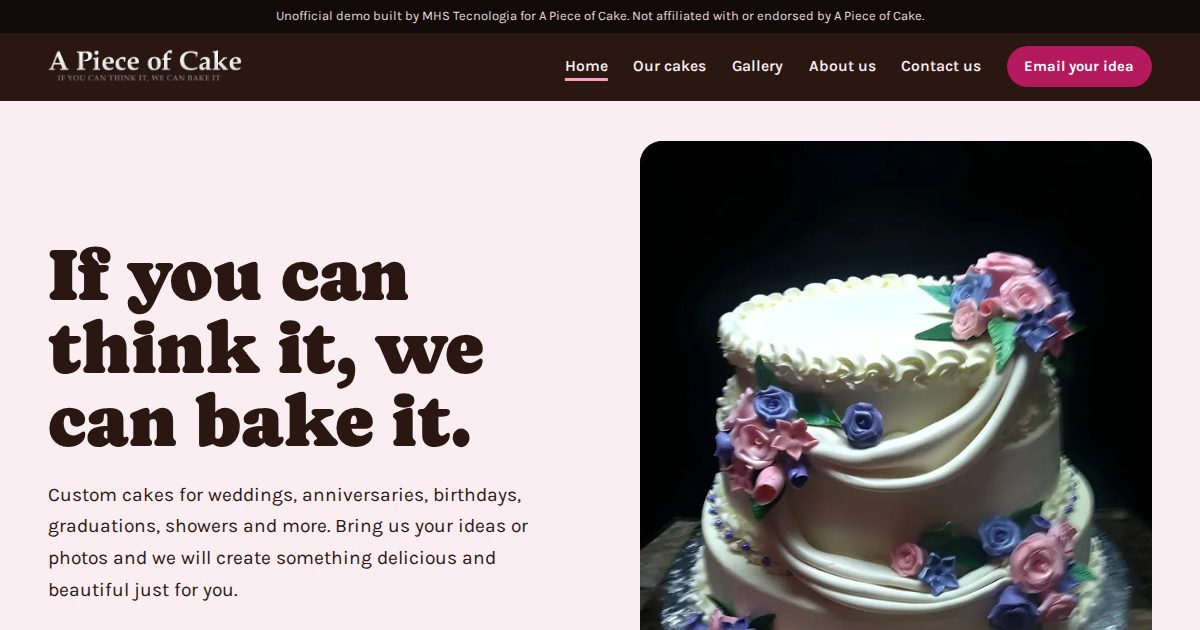
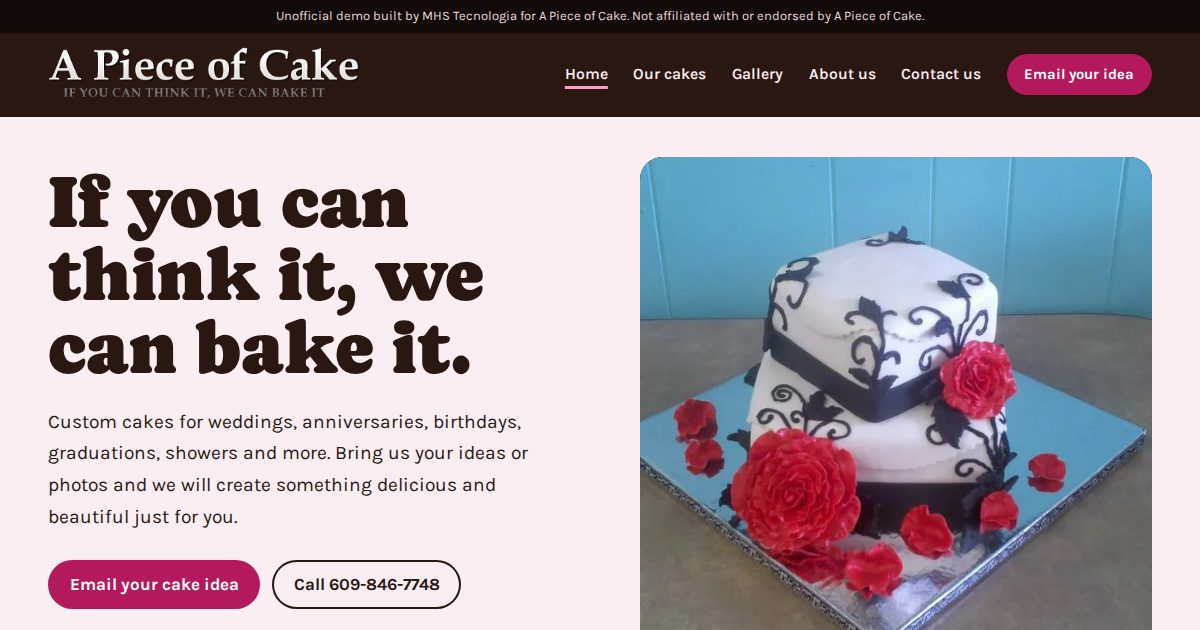
Previews: 179 ativos

diff --git a/a-piece-of-cake-cape-may-court-house-nj/index.html b/a-piece-of-cake-cape-may-court-house-nj/index.html
@@ -9,8 +9,8 @@
 <meta name="theme-color" content="#2b1712">
 <link rel="icon" href="favicon.svg" type="image/svg+xml">
 <link rel="preload" as="font" type="font/woff2" href="fonts/caprasimo.woff2" crossorigin>
-<link rel="preload" as="image" href="img/hero-m-800.webp" imagesrcset="img/hero-m-400.webp 400w, img/hero-m-800.webp 800w" imagesizes="calc(100vw - 2rem)" media="(max-width: 859px)" fetchpriority="high">
-<link rel="preload" as="image" href="img/hero-900.webp" imagesrcset="img/hero-600.webp 600w, img/hero-900.webp 900w, img/hero-1200.webp 1200w" imagesizes="32rem" media="(min-width: 860px)" fetchpriority="high">
+<link rel="preload" as="image" href="img/hero-m-659.webp" imagesrcset="img/hero-m-400.webp 400w, img/hero-m-659.webp 659w" imagesizes="calc(100vw - 2rem)" media="(max-width: 859px)" fetchpriority="high">
+<link rel="preload" as="image" href="img/blackwhite-659.webp" imagesrcset="img/blackwhite-500.webp 500w, img/blackwhite-659.webp 659w" imagesizes="32rem" media="(min-width: 860px)" fetchpriority="high">
 <style>
 @font-face{font-family:Caprasimo;font-weight:400;font-display:swap;src:url(fonts/caprasimo.woff2) format("woff2")}
 @font-face{font-family:Karla;font-weight:300 800;font-display:swap;src:url(fonts/karla.woff2) format("woff2")}
@@ -34,8 +34,8 @@ h2{font-size:clamp(2rem,4.2vw,3.2rem)}
 
 /* Header: their embossed white logo needs the dark band it was drawn for. */
 .top{background:var(--cocoa);color:#fbeef2}
-.top .wrap{display:flex;align-items:center;justify-content:space-between;gap:1rem;min-height:4.25rem}
-.brand img{height:2.5rem;width:auto}
+.top .wrap{display:flex;align-items:center;justify-content:space-between;gap:1rem;min-height:5.25rem}
+.brand img{height:4rem;width:auto}
 .nav{display:flex;align-items:center;gap:1.6rem;font-weight:600;font-size:.98rem}
 .nav > a{text-decoration:none;padding:.3rem 0}
 .nav > a:hover,.nav > a[aria-current]{text-decoration:underline;text-decoration-color:var(--rose);text-decoration-thickness:3px;text-underline-offset:7px}
@@ -55,7 +55,7 @@ background:var(--fuchsia);color:#fff;font-weight:700;text-decoration:none;line-h
 /* Footer */
 .foot{background:var(--cocoa);color:#f0dfe5;margin-top:5rem;padding:3rem 0 2rem;font-size:.95rem}
 .foot .wrap{display:grid;gap:2rem;grid-template-columns:1.2fr 1fr 1fr}
-.foot img{height:2.4rem;width:auto;margin-bottom:.8rem}
+.foot img{width:min(100%,420px);height:auto;margin-bottom:.8rem}
 .foot h2{font-family:Karla,sans-serif;font-weight:700;font-size:1rem;margin-bottom:.5rem}
 .foot ul{list-style:none;padding:0}
 .foot li{margin:.2rem 0}
@@ -79,7 +79,9 @@ dialog.lb button{position:absolute;right:.6rem;bottom:.55rem;background:#fbeef2;
   .nav > a{display:none}
   .nav > .btn{display:none}
   .menu{display:block}
-  .brand img{height:2.1rem}
+  .brand img{height:3.2rem}
+  .top .wrap{gap:.5rem;min-height:4.6rem}
+  .menu summary{padding:.5rem .85rem}
   .foot .wrap{grid-template-columns:1fr}
   .dock{position:fixed;left:0;right:0;bottom:0;z-index:25;display:grid;grid-template-columns:1fr 1fr;gap:.5rem;padding:.6rem 1rem calc(.6rem + env(safe-area-inset-bottom));
     background:var(--cocoa);transform:translateY(110%);transition:transform .25s ease}
@@ -98,7 +100,7 @@ dialog.lb button{position:absolute;right:.6rem;bottom:.55rem;background:#fbeef2;
 .note{margin-top:1.1rem;font-size:.95rem;color:#5b3d34}
 .case{background:var(--case);border-radius:1.4rem;overflow:hidden}
 .case img{width:100%}
-.hero .case{aspect-ratio:3/4}
+.hero .case{aspect-ratio:659/650}
 .hero .case img{height:100%;object-fit:cover}
 
 /* The signature: their own call-and-response, the answer written in piping script. */
@@ -106,8 +108,7 @@ dialog.lb button{position:absolute;right:.6rem;bottom:.55rem;background:#fbeef2;
 .bake .wrap{display:grid;grid-template-columns:1fr 26rem;gap:clamp(2rem,6vw,5rem);align-items:center}
 .ask{font-family:Karla,system-ui,sans-serif;font-weight:400;text-wrap:pretty;font-size:clamp(1.25rem,2.1vw,1.6rem);line-height:1.4;max-width:36rem;color:#f3e2e8}
 .answer{display:block;font-family:Damion,cursive;color:var(--rose);font-size:clamp(2.6rem,5.2vw,4.2rem);line-height:1.15;margin:.35rem 0 2.6rem;transform:rotate(-3deg);transform-origin:left center;width:max-content;max-width:100%}
-.js .answer{clip-path:inset(0 100% 0 0);transition:clip-path 1.1s cubic-bezier(.6,.05,.3,1)}
-.js .answer.on{clip-path:inset(0 -5% 0 0)}
+@media (prefers-reduced-motion:no-preference){.js .answer{clip-path:inset(0 100% 0 0);transition:clip-path 1.1s cubic-bezier(.6,.05,.3,1)}.js .answer.on{clip-path:inset(0 -5% 0 0)}}
 .bake .end{font-family:Caprasimo,Georgia,serif;font-size:clamp(1.7rem,3vw,2.4rem);line-height:1.1;margin-bottom:1.5rem;max-width:30rem}
 .bake figure{margin:0}
 .bake figcaption{font-size:.9rem;color:#cdb6be;margin-top:.7rem}
@@ -115,6 +116,12 @@ dialog.lb button{position:absolute;right:.6rem;bottom:.55rem;background:#fbeef2;
 /* We serve: their own list of occasions, set big, each one a door into Our cakes. */
 .serve{padding:clamp(3.5rem,8vw,6rem) 0 1rem}
 .serve h2{margin-bottom:1.6rem}
+.strip{list-style:none;padding:0;display:grid;grid-template-columns:repeat(4,1fr);gap:1rem;margin-bottom:clamp(2.5rem,6vw,4rem)}
+.strip a{display:block;text-decoration:none;font-weight:700;font-size:1.05rem}
+.strip img{width:100%;aspect-ratio:1;object-fit:cover;border-radius:.9rem;background:var(--case);transition:transform .3s ease}
+.strip a:hover img{transform:translateY(-3px)}
+.strip span{display:block;margin-top:.55rem;text-decoration:underline;text-decoration-color:var(--rose);text-decoration-thickness:3px;text-underline-offset:5px}
+@media (max-width:859px){.strip{grid-template-columns:repeat(2,1fr);gap:.8rem}}
 .occasions{list-style:none;padding:0;display:flex;flex-wrap:wrap;gap:.2rem 0;font-family:Caprasimo,Georgia,serif;font-size:clamp(1.6rem,3.6vw,2.9rem);line-height:1.25}
 .occasions li:not(:last-child)::after{content:"/";color:var(--fuchsia);margin:0 .45em;font-family:Karla,sans-serif;font-weight:300}
 .occasions a{text-decoration:none;background-image:linear-gradient(var(--rose),var(--rose));background-size:100% .18em;background-position:0 88%;background-repeat:no-repeat}
@@ -177,8 +184,8 @@ dialog.lb button{position:absolute;right:.6rem;bottom:.55rem;background:#fbeef2;
     </div>
     <div class="case">
       <picture>
-        <source media="(max-width: 859px)" srcset="img/hero-m-400.webp 400w, img/hero-m-800.webp 800w" sizes="calc(100vw - 2rem)" width="800" height="600">
-        <img src="img/hero-900.webp" srcset="img/hero-600.webp 600w, img/hero-900.webp 900w, img/hero-1200.webp 1200w" sizes="32rem" width="900" height="1207" alt="Three-tier cake with buttercream swags and pink and violet sugar roses" fetchpriority="high">
+        <source media="(max-width: 859px)" srcset="img/hero-m-400.webp 400w, img/hero-m-659.webp 659w" sizes="calc(100vw - 2rem)" width="659" height="494">
+        <img src="img/blackwhite-659.webp" srcset="img/blackwhite-500.webp 500w, img/blackwhite-659.webp 659w" sizes="32rem" width="659" height="650" alt="Two-tier white wedding cake with black scrollwork and red sugar roses" fetchpriority="high">
       </picture>
     </div>
   </div>
@@ -203,6 +210,12 @@ dialog.lb button{position:absolute;right:.6rem;bottom:.55rem;background:#fbeef2;
 
 <section class="serve" aria-labelledby="serve-h">
   <div class="wrap">
+    <ul class="strip">
+      <li><a href="cakes.html#weddings"><img src="img/nautical-500.webp" srcset="img/nautical-500.webp 500w, img/nautical-800.webp 800w, img/nautical-880.webp 880w" sizes="(min-width: 860px) 16.5rem, calc(50vw - 1.4rem)" width="500" height="682" alt="Navy-striped wedding cake with a rope border and an anchor on top" loading="lazy" decoding="async"><span>Weddings</span></a></li>
+      <li><a href="cakes.html#birthdays"><img src="img/first-500.webp" srcset="img/first-500.webp 500w, img/first-720.webp 720w" sizes="(min-width: 860px) 16.5rem, calc(50vw - 1.4rem)" width="500" height="667" alt="Small birthday cake piped in blue and green rosettes with a big green number 1" loading="lazy" decoding="async"><span>Birthdays</span></a></li>
+      <li><a href="cakes.html#cupcakes"><img src="img/bouquet-500.webp" srcset="img/bouquet-500.webp 500w, img/bouquet-800.webp 800w, img/bouquet-1200.webp 1200w" sizes="(min-width: 860px) 16.5rem, calc(50vw - 1.4rem)" width="500" height="669" alt="Cupcake bouquet of teal rosettes in a white pot" loading="lazy" decoding="async"><span>Cupcakes</span></a></li>
+      <li><a href="cakes.html#holidays"><img src="img/pumpkin-500.webp" srcset="img/pumpkin-500.webp 500w, img/pumpkin-800.webp 800w, img/pumpkin-1200.webp 1200w" sizes="(min-width: 860px) 16.5rem, calc(50vw - 1.4rem)" width="500" height="500" alt="Round cake with an orange piped border and sugar pumpkins" loading="lazy" decoding="async"><span>Holidays</span></a></li>
+    </ul>
     <h2 id="serve-h">We serve</h2>
     <ul class="occasions">
       <li><a href="cakes.html#weddings">Weddings</a></li>

diff --git a/a-piece-of-cake-cape-may-court-house-nj/gallery.html b/a-piece-of-cake-cape-may-court-house-nj/gallery.html
@@ -32,8 +32,8 @@ h2{font-size:clamp(2rem,4.2vw,3.2rem)}
 
 /* Header: their embossed white logo needs the dark band it was drawn for. */
 .top{background:var(--cocoa);color:#fbeef2}
-.top .wrap{display:flex;align-items:center;justify-content:space-between;gap:1rem;min-height:4.25rem}
-.brand img{height:2.5rem;width:auto}
+.top .wrap{display:flex;align-items:center;justify-content:space-between;gap:1rem;min-height:5.25rem}
+.brand img{height:4rem;width:auto}
 .nav{display:flex;align-items:center;gap:1.6rem;font-weight:600;font-size:.98rem}
 .nav > a{text-decoration:none;padding:.3rem 0}
 .nav > a:hover,.nav > a[aria-current]{text-decoration:underline;text-decoration-color:var(--rose);text-decoration-thickness:3px;text-underline-offset:7px}
@@ -53,7 +53,7 @@ background:var(--fuchsia);color:#fff;font-weight:700;text-decoration:none;line-h
 /* Footer */
 .foot{background:var(--cocoa);color:#f0dfe5;margin-top:5rem;padding:3rem 0 2rem;font-size:.95rem}
 .foot .wrap{display:grid;gap:2rem;grid-template-columns:1.2fr 1fr 1fr}
-.foot img{height:2.4rem;width:auto;margin-bottom:.8rem}
+.foot img{width:min(100%,420px);height:auto;margin-bottom:.8rem}
 .foot h2{font-family:Karla,sans-serif;font-weight:700;font-size:1rem;margin-bottom:.5rem}
 .foot ul{list-style:none;padding:0}
 .foot li{margin:.2rem 0}
@@ -77,7 +77,9 @@ dialog.lb button{position:absolute;right:.6rem;bottom:.55rem;background:#fbeef2;
   .nav > a{display:none}
   .nav > .btn{display:none}
   .menu{display:block}
-  .brand img{height:2.1rem}
+  .brand img{height:3.2rem}
+  .top .wrap{gap:.5rem;min-height:4.6rem}
+  .menu summary{padding:.5rem .85rem}
   .foot .wrap{grid-template-columns:1fr}
   .dock{position:fixed;left:0;right:0;bottom:0;z-index:25;display:grid;grid-template-columns:1fr 1fr;gap:.5rem;padding:.6rem 1rem calc(.6rem + env(safe-area-inset-bottom));
     background:var(--cocoa);transform:translateY(110%);transition:transform .25s ease}
@@ -188,7 +190,7 @@ dialog.lb button{position:absolute;right:.6rem;bottom:.55rem;background:#fbeef2;
 </section>
 <section class="album wrap" aria-labelledby="a-from-our-front-page">
   <h2 id="a-from-our-front-page">From our front page</h2>
-  <div class="wall"><figure class="tile"><button type="button" class="zoom" data-full="img/redroses-900.webp" aria-label="Enlarge: Tiered white cake with cascading red roses, set among candles"><img src="img/redroses-500.webp" srcset="img/redroses-500.webp 500w, img/redroses-900.webp 900w" sizes="(min-width: 860px) 25.5rem, calc(50vw - 1.3rem)" width="500" height="239" alt="Tiered white cake with cascading red roses, set among candles" loading="lazy" decoding="async"></button></figure><figure class="tile"><button type="button" class="zoom" data-full="img/steampunk-900.webp" aria-label="Enlarge: Cake covered in gears, wings, a pocket watch and dark sugar roses"><img src="img/steampunk-500.webp" srcset="img/steampunk-500.webp 500w, img/steampunk-900.webp 900w" sizes="(min-width: 860px) 25.5rem, calc(50vw - 1.3rem)" width="500" height="239" alt="Cake covered in gears, wings, a pocket watch and dark sugar roses" loading="lazy" decoding="async"></button></figure><figure class="tile"><button type="button" class="zoom" data-full="img/flowercup-900.webp" aria-label="Enlarge: Close-up of a cupcake with a pink and green sugar flower"><img src="img/flowercup-500.webp" srcset="img/flowercup-500.webp 500w, img/flowercup-900.webp 900w" sizes="(min-width: 860px) 25.5rem, calc(50vw - 1.3rem)" width="500" height="239" alt="Close-up of a cupcake with a pink and green sugar flower" loading="lazy" decoding="async"></button></figure></div>
+  <div class="wall"><figure class="tile"><button type="button" class="zoom" data-full="img/steampunk-900.webp" aria-label="Enlarge: Cake covered in gears, wings, a pocket watch and dark sugar roses"><img src="img/steampunk-500.webp" srcset="img/steampunk-500.webp 500w, img/steampunk-900.webp 900w" sizes="(min-width: 860px) 25.5rem, calc(50vw - 1.3rem)" width="500" height="239" alt="Cake covered in gears, wings, a pocket watch and dark sugar roses" loading="lazy" decoding="async"></button></figure><figure class="tile"><button type="button" class="zoom" data-full="img/flowercup-900.webp" aria-label="Enlarge: Close-up of a cupcake with a pink and green sugar flower"><img src="img/flowercup-500.webp" srcset="img/flowercup-500.webp 500w, img/flowercup-900.webp 900w" sizes="(min-width: 860px) 25.5rem, calc(50vw - 1.3rem)" width="500" height="239" alt="Close-up of a cupcake with a pink and green sugar flower" loading="lazy" decoding="async"></button></figure><figure class="tile"><button type="button" class="zoom" data-full="img/platter-900.webp" aria-label="Enlarge: Platter of decorated cupcakes and sliced rolls"><img src="img/platter-500.webp" srcset="img/platter-500.webp 500w, img/platter-900.webp 900w" sizes="(min-width: 860px) 25.5rem, calc(50vw - 1.3rem)" width="500" height="239" alt="Platter of decorated cupcakes and sliced rolls" loading="lazy" decoding="async"></button></figure></div>
 </section>
 
 </main>

diff --git a/a-piece-of-cake-cape-may-court-house-nj/about.html b/a-piece-of-cake-cape-may-court-house-nj/about.html
@@ -32,8 +32,8 @@ h2{font-size:clamp(2rem,4.2vw,3.2rem)}
 
 /* Header: their embossed white logo needs the dark band it was drawn for. */
 .top{background:var(--cocoa);color:#fbeef2}
-.top .wrap{display:flex;align-items:center;justify-content:space-between;gap:1rem;min-height:4.25rem}
-.brand img{height:2.5rem;width:auto}
+.top .wrap{display:flex;align-items:center;justify-content:space-between;gap:1rem;min-height:5.25rem}
+.brand img{height:4rem;width:auto}
 .nav{display:flex;align-items:center;gap:1.6rem;font-weight:600;font-size:.98rem}
 .nav > a{text-decoration:none;padding:.3rem 0}
 .nav > a:hover,.nav > a[aria-current]{text-decoration:underline;text-decoration-color:var(--rose);text-decoration-thickness:3px;text-underline-offset:7px}
@@ -53,7 +53,7 @@ background:var(--fuchsia);color:#fff;font-weight:700;text-decoration:none;line-h
 /* Footer */
 .foot{background:var(--cocoa);color:#f0dfe5;margin-top:5rem;padding:3rem 0 2rem;font-size:.95rem}
 .foot .wrap{display:grid;gap:2rem;grid-template-columns:1.2fr 1fr 1fr}
-.foot img{height:2.4rem;width:auto;margin-bottom:.8rem}
+.foot img{width:min(100%,420px);height:auto;margin-bottom:.8rem}
 .foot h2{font-family:Karla,sans-serif;font-weight:700;font-size:1rem;margin-bottom:.5rem}
 .foot ul{list-style:none;padding:0}
 .foot li{margin:.2rem 0}
@@ -77,7 +77,9 @@ dialog.lb button{position:absolute;right:.6rem;bottom:.55rem;background:#fbeef2;
   .nav > a{display:none}
   .nav > .btn{display:none}
   .menu{display:block}
-  .brand img{height:2.1rem}
+  .brand img{height:3.2rem}
+  .top .wrap{gap:.5rem;min-height:4.6rem}
+  .menu summary{padding:.5rem .85rem}
   .foot .wrap{grid-template-columns:1fr}
   .dock{position:fixed;left:0;right:0;bottom:0;z-index:25;display:grid;grid-template-columns:1fr 1fr;gap:.5rem;padding:.6rem 1rem calc(.6rem + env(safe-area-inset-bottom));
     background:var(--cocoa);transform:translateY(110%);transition:transform .25s ease}

diff --git a/a-piece-of-cake-cape-may-court-house-nj/cakes.html b/a-piece-of-cake-cape-may-court-house-nj/cakes.html
@@ -32,8 +32,8 @@ h2{font-size:clamp(2rem,4.2vw,3.2rem)}
 
 /* Header: their embossed white logo needs the dark band it was drawn for. */
 .top{background:var(--cocoa);color:#fbeef2}
-.top .wrap{display:flex;align-items:center;justify-content:space-between;gap:1rem;min-height:4.25rem}
-.brand img{height:2.5rem;width:auto}
+.top .wrap{display:flex;align-items:center;justify-content:space-between;gap:1rem;min-height:5.25rem}
+.brand img{height:4rem;width:auto}
 .nav{display:flex;align-items:center;gap:1.6rem;font-weight:600;font-size:.98rem}
 .nav > a{text-decoration:none;padding:.3rem 0}
 .nav > a:hover,.nav > a[aria-current]{text-decoration:underline;text-decoration-color:var(--rose);text-decoration-thickness:3px;text-underline-offset:7px}
@@ -53,7 +53,7 @@ background:var(--fuchsia);color:#fff;font-weight:700;text-decoration:none;line-h
 /* Footer */
 .foot{background:var(--cocoa);color:#f0dfe5;margin-top:5rem;padding:3rem 0 2rem;font-size:.95rem}
 .foot .wrap{display:grid;gap:2rem;grid-template-columns:1.2fr 1fr 1fr}
-.foot img{height:2.4rem;width:auto;margin-bottom:.8rem}
+.foot img{width:min(100%,420px);height:auto;margin-bottom:.8rem}
 .foot h2{font-family:Karla,sans-serif;font-weight:700;font-size:1rem;margin-bottom:.5rem}
 .foot ul{list-style:none;padding:0}
 .foot li{margin:.2rem 0}
@@ -77,7 +77,9 @@ dialog.lb button{position:absolute;right:.6rem;bottom:.55rem;background:#fbeef2;
   .nav > a{display:none}
   .nav > .btn{display:none}
   .menu{display:block}
-  .brand img{height:2.1rem}
+  .brand img{height:3.2rem}
+  .top .wrap{gap:.5rem;min-height:4.6rem}
+  .menu summary{padding:.5rem .85rem}
   .foot .wrap{grid-template-columns:1fr}
   .dock{position:fixed;left:0;right:0;bottom:0;z-index:25;display:grid;grid-template-columns:1fr 1fr;gap:.5rem;padding:.6rem 1rem calc(.6rem + env(safe-area-inset-bottom));
     background:var(--cocoa);transform:translateY(110%);transition:transform .25s ease}

diff --git a/a-piece-of-cake-cape-may-court-house-nj/contact.html b/a-piece-of-cake-cape-may-court-house-nj/contact.html
@@ -32,8 +32,8 @@ h2{font-size:clamp(2rem,4.2vw,3.2rem)}
 
 /* Header: their embossed white logo needs the dark band it was drawn for. */
 .top{background:var(--cocoa);color:#fbeef2}
-.top .wrap{display:flex;align-items:center;justify-content:space-between;gap:1rem;min-height:4.25rem}
-.brand img{height:2.5rem;width:auto}
+.top .wrap{display:flex;align-items:center;justify-content:space-between;gap:1rem;min-height:5.25rem}
+.brand img{height:4rem;width:auto}
 .nav{display:flex;align-items:center;gap:1.6rem;font-weight:600;font-size:.98rem}
 .nav > a{text-decoration:none;padding:.3rem 0}
 .nav > a:hover,.nav > a[aria-current]{text-decoration:underline;text-decoration-color:var(--rose);text-decoration-thickness:3px;text-underline-offset:7px}
@@ -53,7 +53,7 @@ background:var(--fuchsia);color:#fff;font-weight:700;text-decoration:none;line-h
 /* Footer */
 .foot{background:var(--cocoa);color:#f0dfe5;margin-top:5rem;padding:3rem 0 2rem;font-size:.95rem}
 .foot .wrap{display:grid;gap:2rem;grid-template-columns:1.2fr 1fr 1fr}
-.foot img{height:2.4rem;width:auto;margin-bottom:.8rem}
+.foot img{width:min(100%,420px);height:auto;margin-bottom:.8rem}
 .foot h2{font-family:Karla,sans-serif;font-weight:700;font-size:1rem;margin-bottom:.5rem}
 .foot ul{list-style:none;padding:0}
 .foot li{margin:.2rem 0}
@@ -77,7 +77,9 @@ dialog.lb button{position:absolute;right:.6rem;bottom:.55rem;background:#fbeef2;
   .nav > a{display:none}
   .nav > .btn{display:none}
   .menu{display:block}
-  .brand img{height:2.1rem}
+  .brand img{height:3.2rem}
+  .top .wrap{gap:.5rem;min-height:4.6rem}
+  .menu summary{padding:.5rem .85rem}
   .foot .wrap{grid-template-columns:1fr}
   .dock{position:fixed;left:0;right:0;bottom:0;z-index:25;display:grid;grid-template-columns:1fr 1fr;gap:.5rem;padding:.6rem 1rem calc(.6rem + env(safe-area-inset-bottom));
     background:var(--cocoa);transform:translateY(110%);transition:transform .25s ease}
